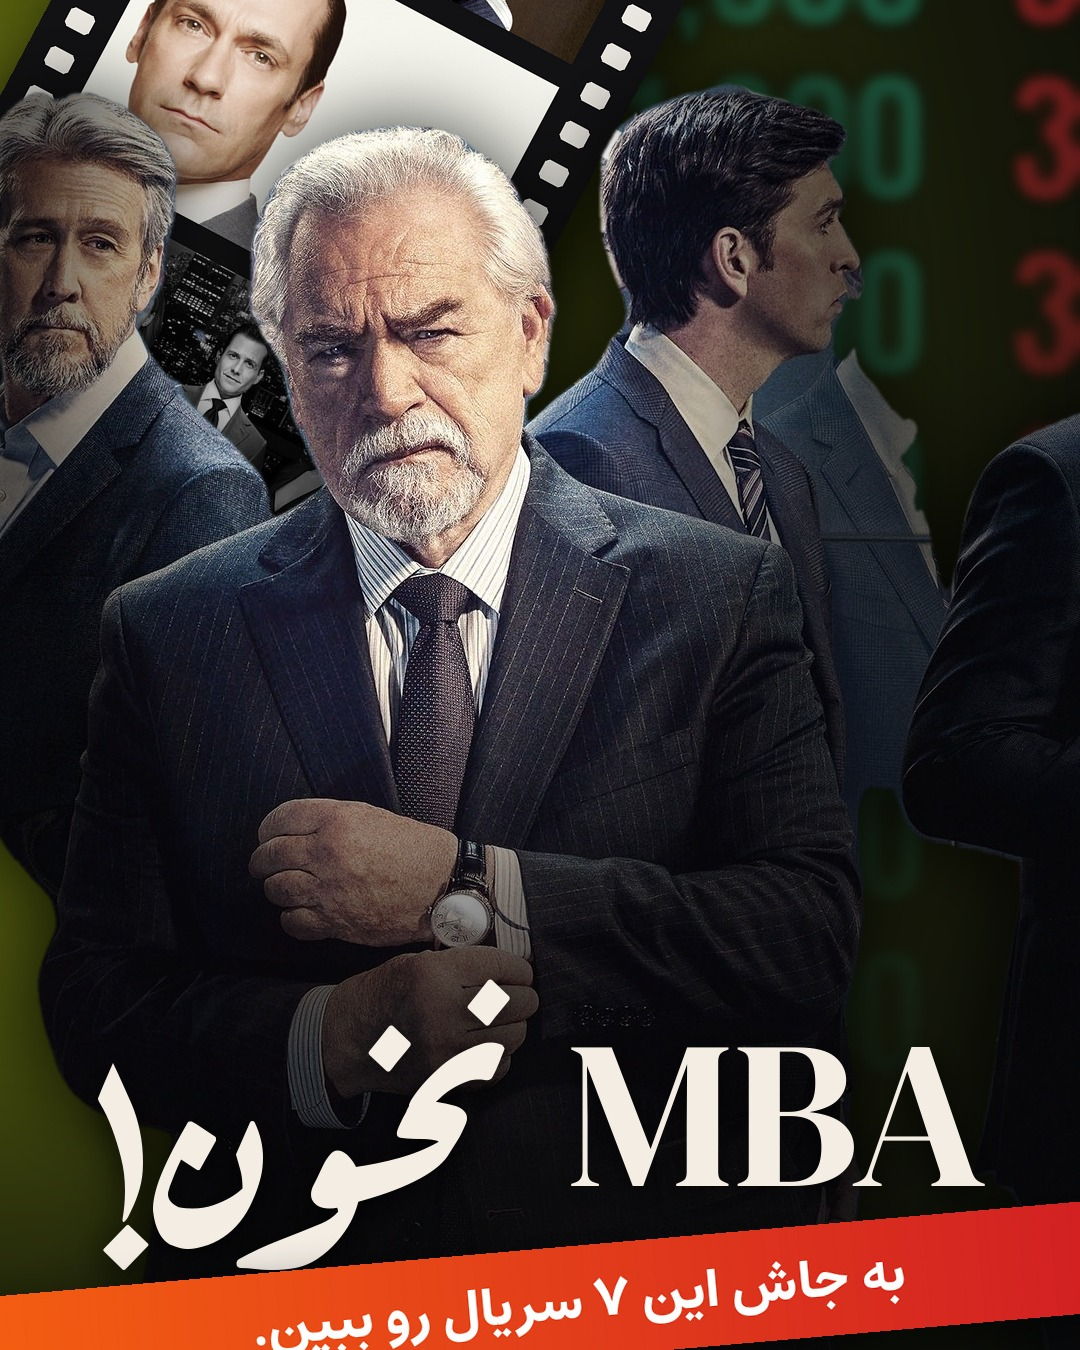
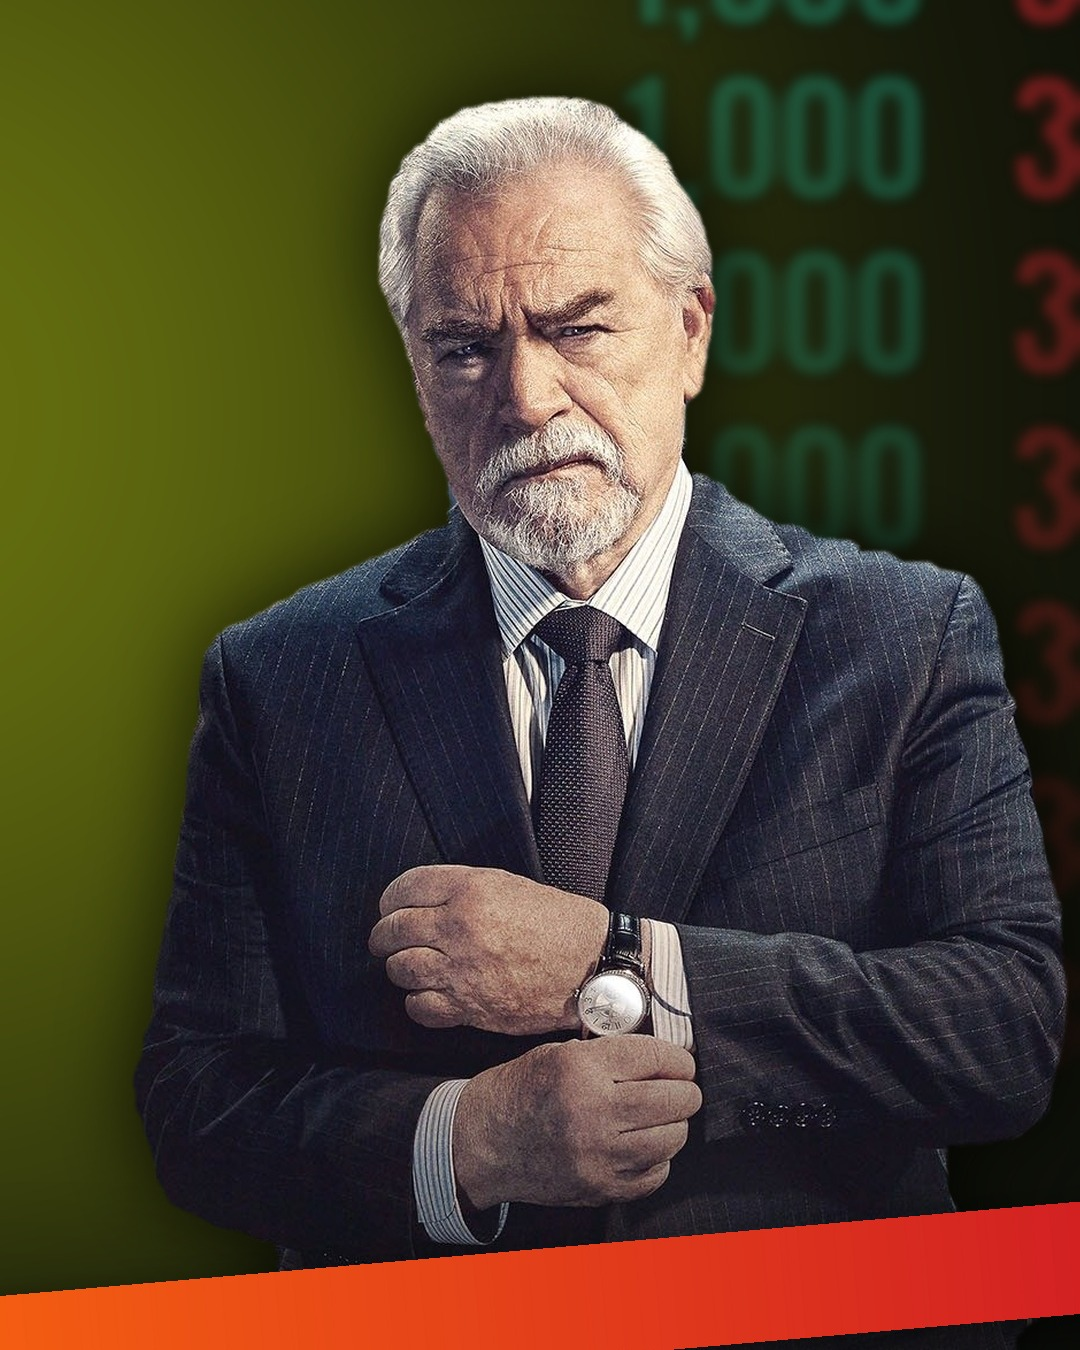
7-series cover: single hero, no text, no film strip, empty bar
Claude-Session: https://claude.ai/code/session_01SLpjwELmvdgs4e63iFzTzE

diff --git a/reels/7-series/cover.py b/reels/7-series/cover.py
@@ -1,7 +1,6 @@
 """Reel cover (1080x1920), v2, matched to the page's current covers:
 - dark background, olive glow from the left, big blurred stock-board digits top right
-- a symbolic object top left behind the people (here: a film strip with three series stills)
-- cut-out people large in the frame, heads in the upper half, bodies running off the bottom
+- one cut-out hero, large, head in the upper half, body running off the bottom
 - off-white title: Persian in Aref Ruqaa (closest free match to the covers' calligraphic
   title face), Latin in DM Serif Display (matches "STOMP?")
 - slanted orange-to-red bar with the subtitle in Estedad Bold
@@ -112,8 +111,9 @@ def slanted_bar(img, s, cy, angle=5.0):
     left, right = np.array([250, 105, 15], np.float32), np.array([205, 22, 38], np.float32)
     grad = (left * (1 - t) + right * t).repeat(bh, axis=0)
     bar = Image.fromarray(grad.astype(np.uint8)).convert("RGBA")
-    txt, _ = text_layer(s, fnt("Estedad-Bold.ttf", 54), (255, 255, 255))
-    bar.alpha_composite(txt, (int(bw / 2 - txt.width / 2 + 40), int(bh / 2 - txt.height / 2 + 4)))
+    if s:
+        txt, _ = text_layer(s, fnt("Estedad-Bold.ttf", 54), (255, 255, 255))
+        bar.alpha_composite(txt, (int(bw / 2 - txt.width / 2 + 40), int(bh / 2 - txt.height / 2 + 4)))
     bar = bar.rotate(angle, resample=Image.BICUBIC, expand=True)
     shadow_paste(img, bar, W / 2 - bar.width / 2, cy - bar.height / 2, blur=20, alpha=0.5, off=(0, 14))
 
@@ -125,36 +125,20 @@ def bottom_fade(img, start):
     img.alpha_composite(layer)
 
 
-def main(out):
+def main(out, with_text=False):
     img = background()
 
-    # object: film strip with stills from three other series, tilted, running off the top-left
-    H_ = A / "hires"
-    strip = film_strip([
-        (H_ / "389_973816.jpg", (2100, 0, 3700, 1150)),     # Billions
-        (H_ / "396_990282.jpg", (1950, 0, 3450, 1050)),     # Mad Men
-        (H_ / "219_547612.jpg", (500, 150, 1450, 800)),     # Suits
-    ])
-    strip = strip.rotate(-28, resample=Image.BICUBIC, expand=True)
-    shadow_paste(img, strip, -170, -160, blur=30, alpha=0.7)
+    # one hero: the front figure of the Succession group art, cut out on his own
+    hero = Image.open(A / "characters" / "succession_front_cut.png")
+    sc = 1.15
+    hero = hero.resize((int(hero.width * sc), int(hero.height * sc)), Image.LANCZOS)
+    shadow_paste(img, hero, 600 - hero.width / 2, 380, blur=40, alpha=0.8, off=(0, 0))
 
-    # people: Succession group cut-out, large, heads in the upper half, bleeding off the bottom/right
-    people = Image.open(A / "characters" / "succession_group_cut.png")
-    s = 1.0
-    people = people.resize((int(people.width * s), int(people.height * s)), Image.LANCZOS)
-    # keep the eye on the front figure: darken the people layer away from him
-    px, py = -60, H - people.height + 40
-    yy, xx = np.mgrid[0:people.height, 0:people.width].astype(np.float32)
-    dist = np.sqrt(((xx + px - 420) / 1.0) ** 2 + ((yy + py - 650) / 1.6) ** 2)
-    k = np.clip(1.0 - (dist - 200) / 330, 0.4, 1.0)[..., None]
-    rgb = np.array(people.convert("RGB")).astype(np.float32) * k
-    lit = Image.fromarray(rgb.astype(np.uint8)).convert("RGBA")
-    lit.putalpha(people.getchannel("A"))
-    shadow_paste(img, lit, px, py, blur=40, alpha=0.8, off=(0, 0))
-
-    bottom_fade(img, 1350)
-    title(img, 1440)
-    slanted_bar(img, "به جاش این ۷ سریال رو ببین.", 1590)
+    bottom_fade(img, 1450)
+    if with_text:
+        title(img, 1440)
+    # the slanted bar is kept as an empty frame, ready for text to be added in the app
+    slanted_bar(img, "به جاش این ۷ سریال رو ببین." if with_text else "", 1590)
 
     img.convert("RGB").save(out, quality=95, subsampling=0)
     print(f"wrote {out}")
